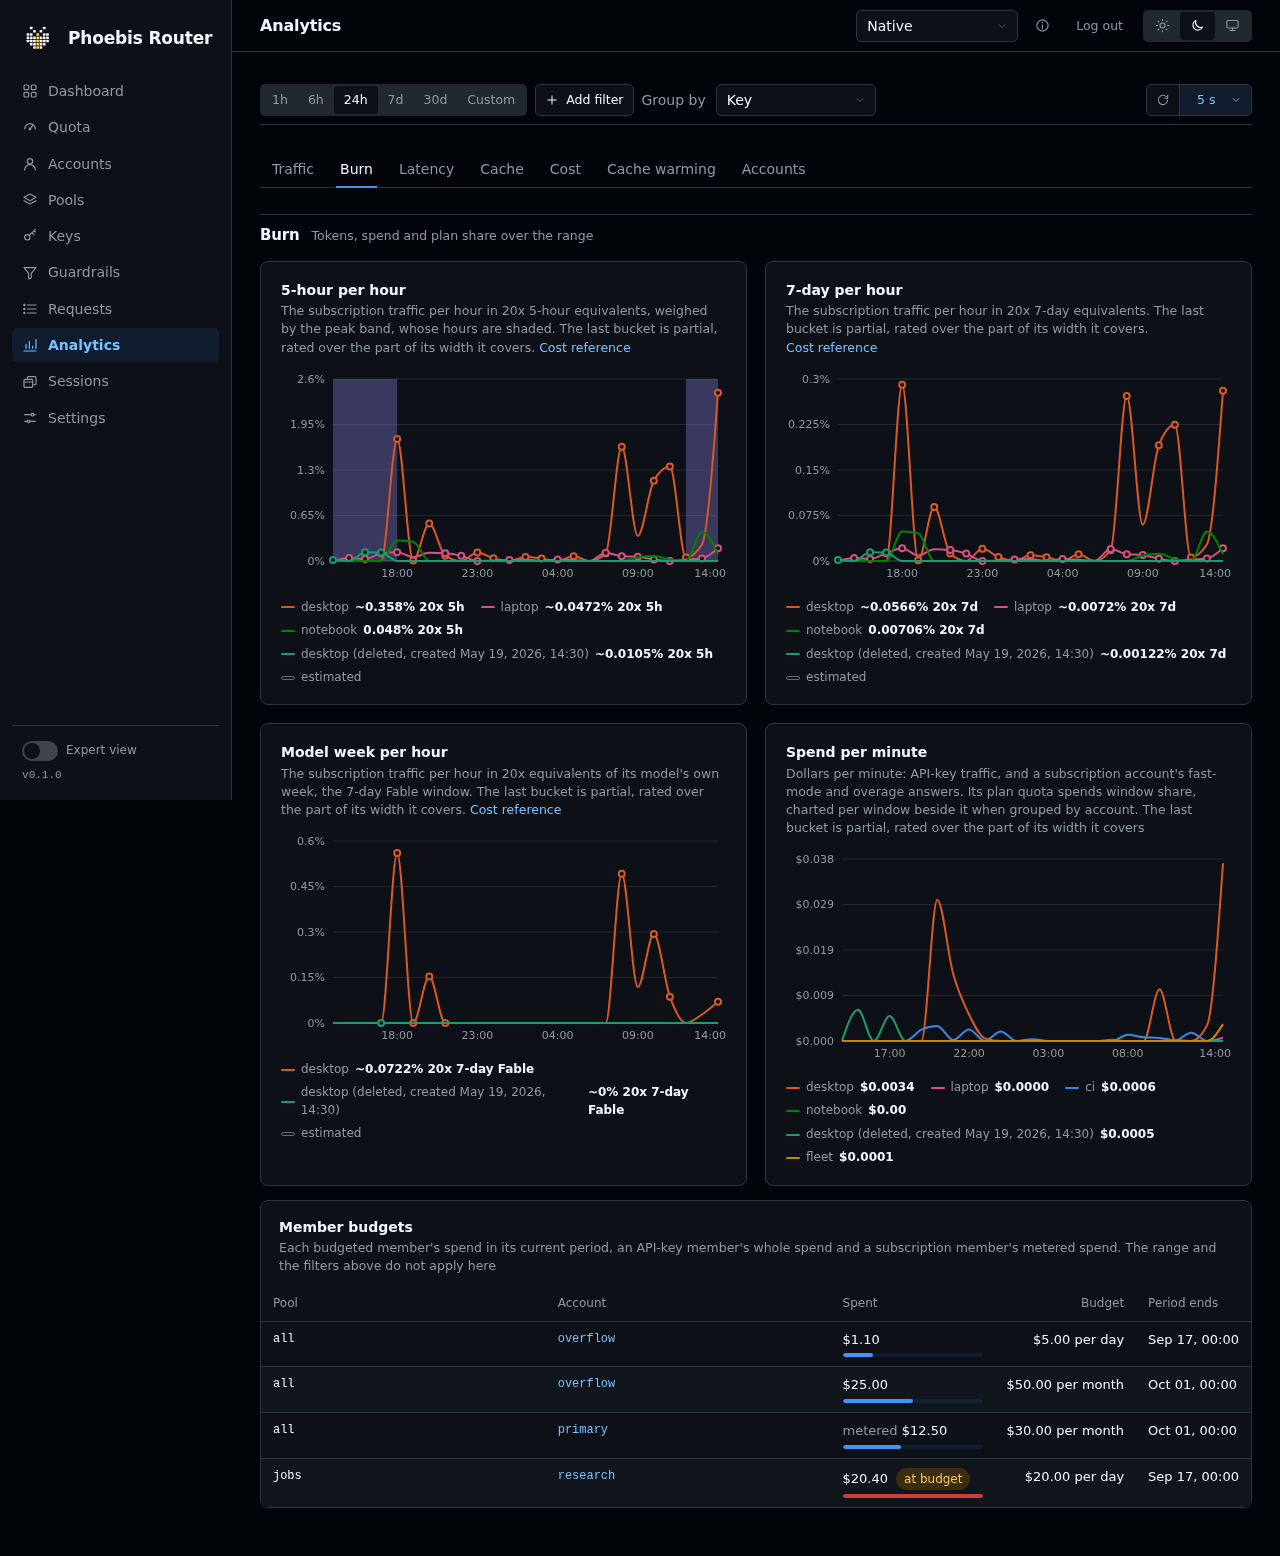
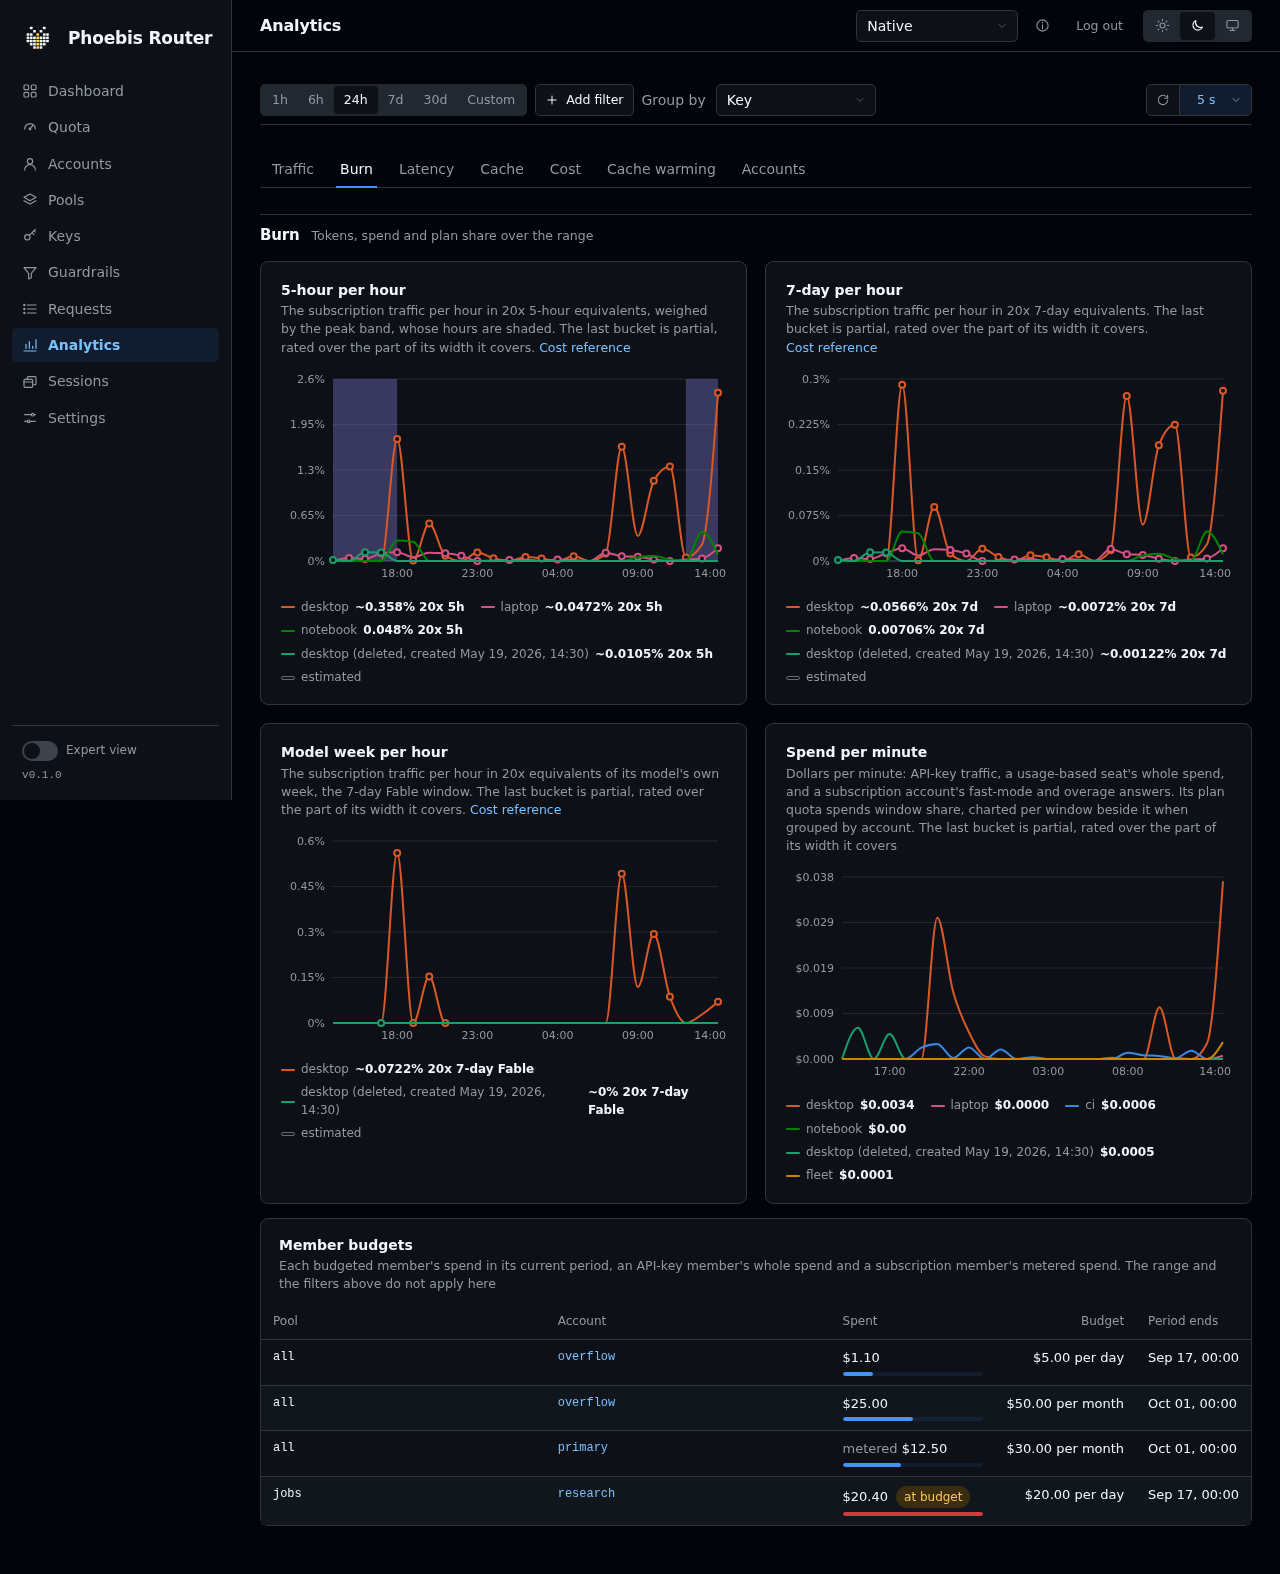
Name the usage-based seat in the spend card's subtitle
The Spend per minute card charts a usage-based seat's whole spend in
dollars, since the burn route answers the seat in dollars, while its
subtitle named API-key traffic and a subscription account's fast-mode
and overage answers alone. The subtitle names the seat between the
two. The smoke's pin of the Burn tab's note reads the new words, and
the Burn tab's shots are retaken for the subtitle's line.

diff --git a/web/src/pages/AnalyticsPage.tsx b/web/src/pages/AnalyticsPage.tsx
@@ -2451,7 +2451,7 @@ const CONVERSATION_HINT = CONVERSATION_CLASSES.join(', ');
 const OVERHEAD_HINT = 'every other class, and requests that named none';
 const CLASS_NOTE = `conversation is ${CONVERSATION_HINT}. Overhead is ${OVERHEAD_HINT}`;
 
-const SPEND_NOTE = "Dollars per minute: API-key traffic, and a subscription account's fast-mode and overage answers. Its plan quota spends window share, charted per window beside it";
+const SPEND_NOTE = "Dollars per minute: API-key traffic, a usage-based seat's whole spend, and a subscription account's fast-mode and overage answers. Its plan quota spends window share, charted per window beside it";
 /** A folded rest of subscription accounts as the dollars chart names it: its dollars are its members' fast-mode
  *  and overage answers, and its own label names the plan unit, which the dollars axis does not chart. */
 const SPEND_REST = 'Other (fast mode or overage)';
